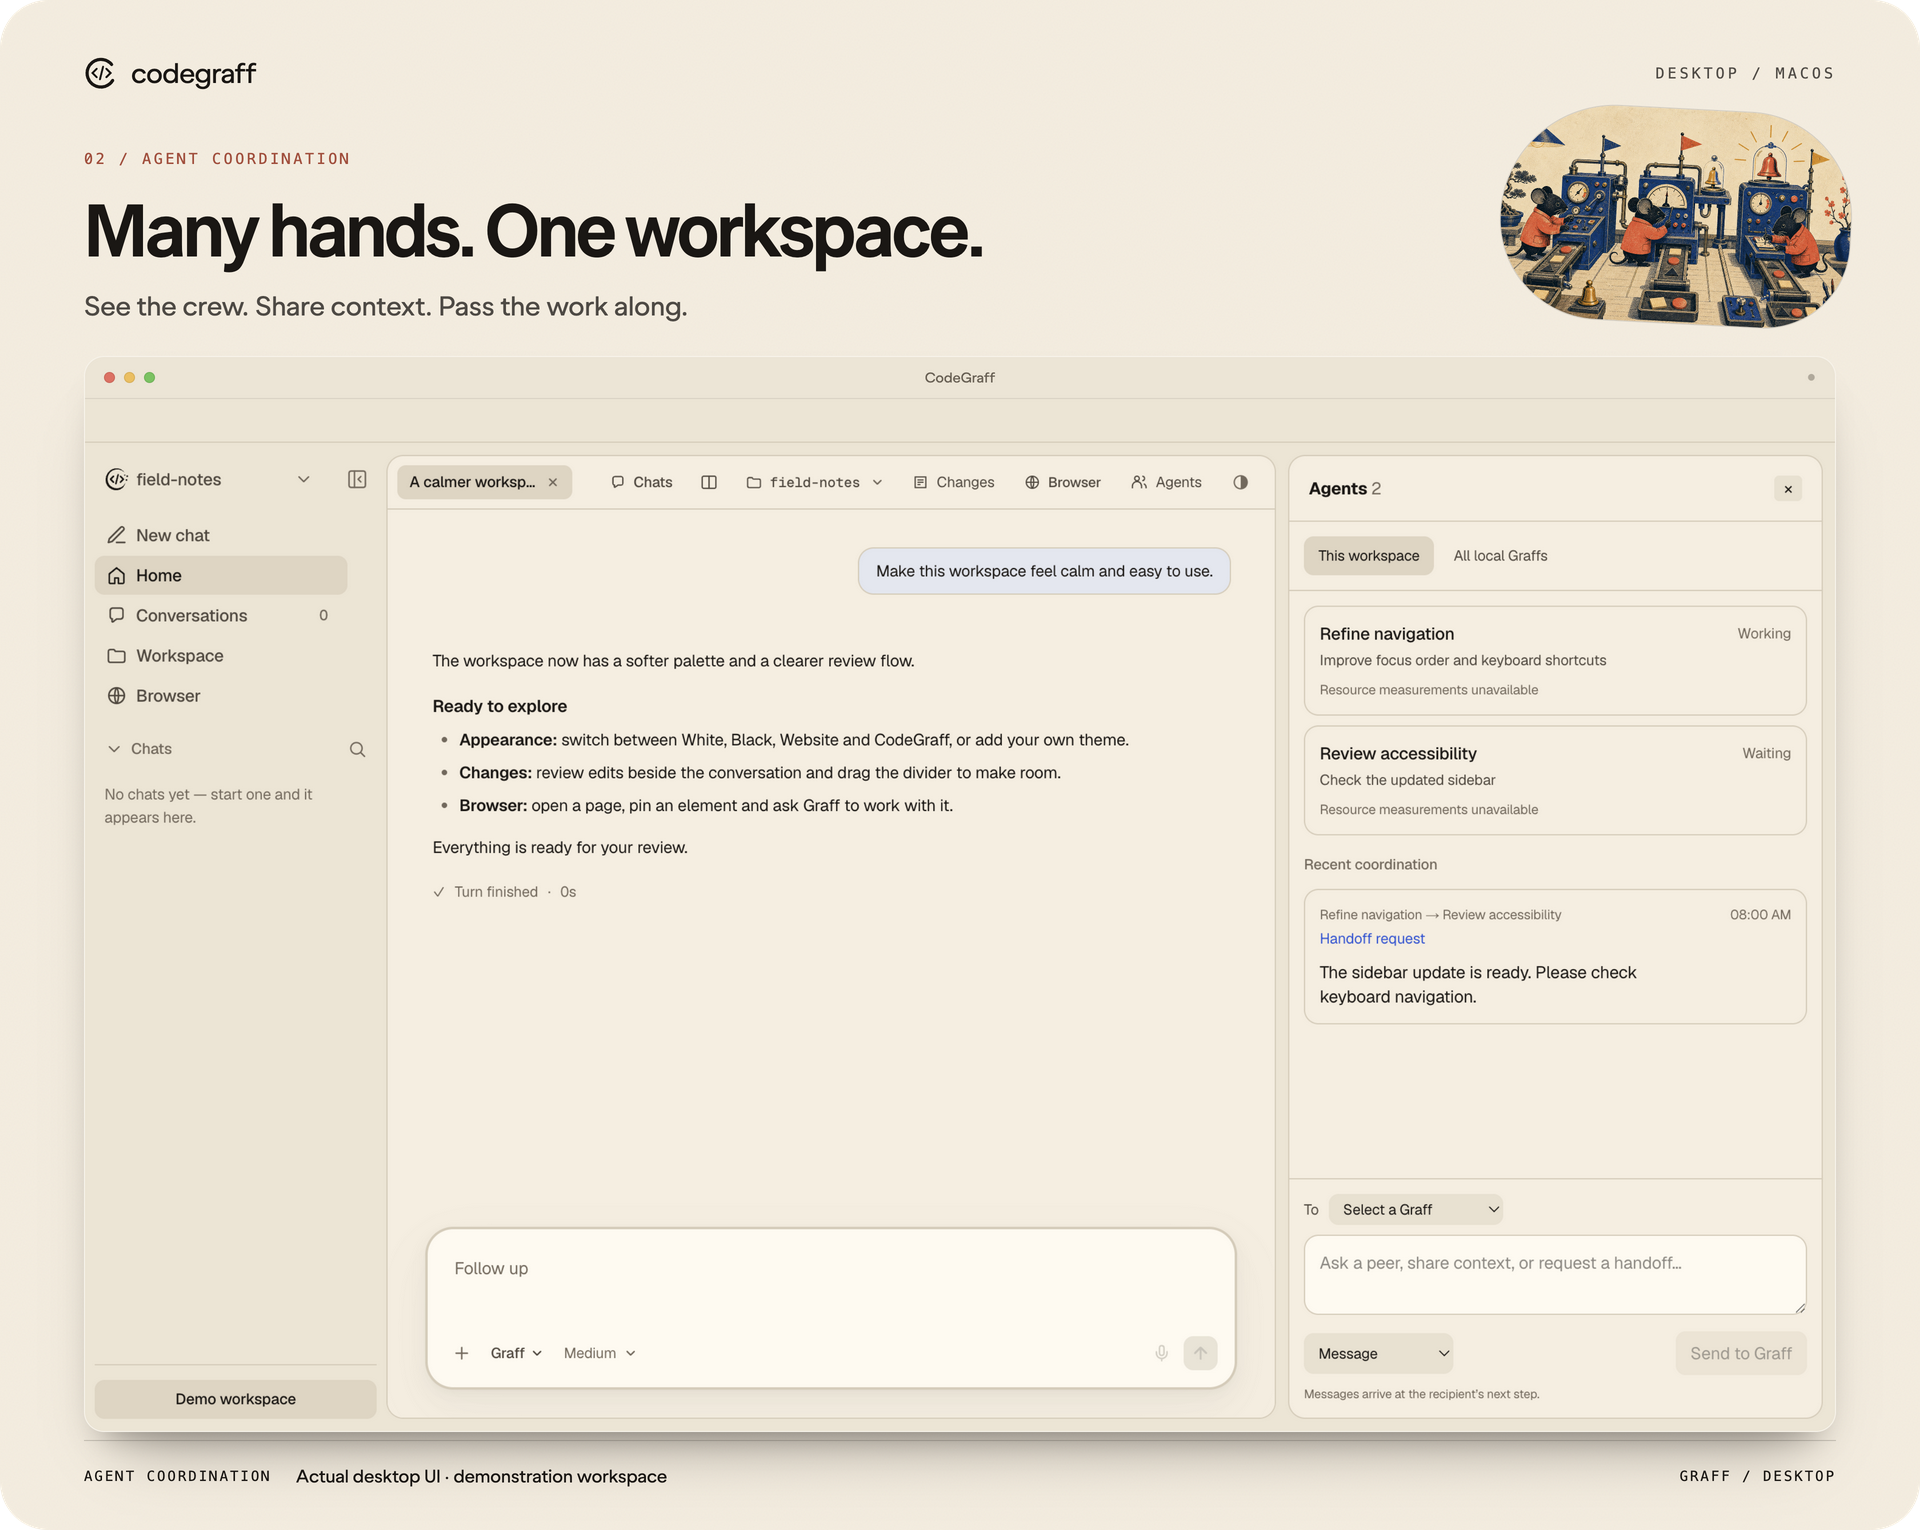
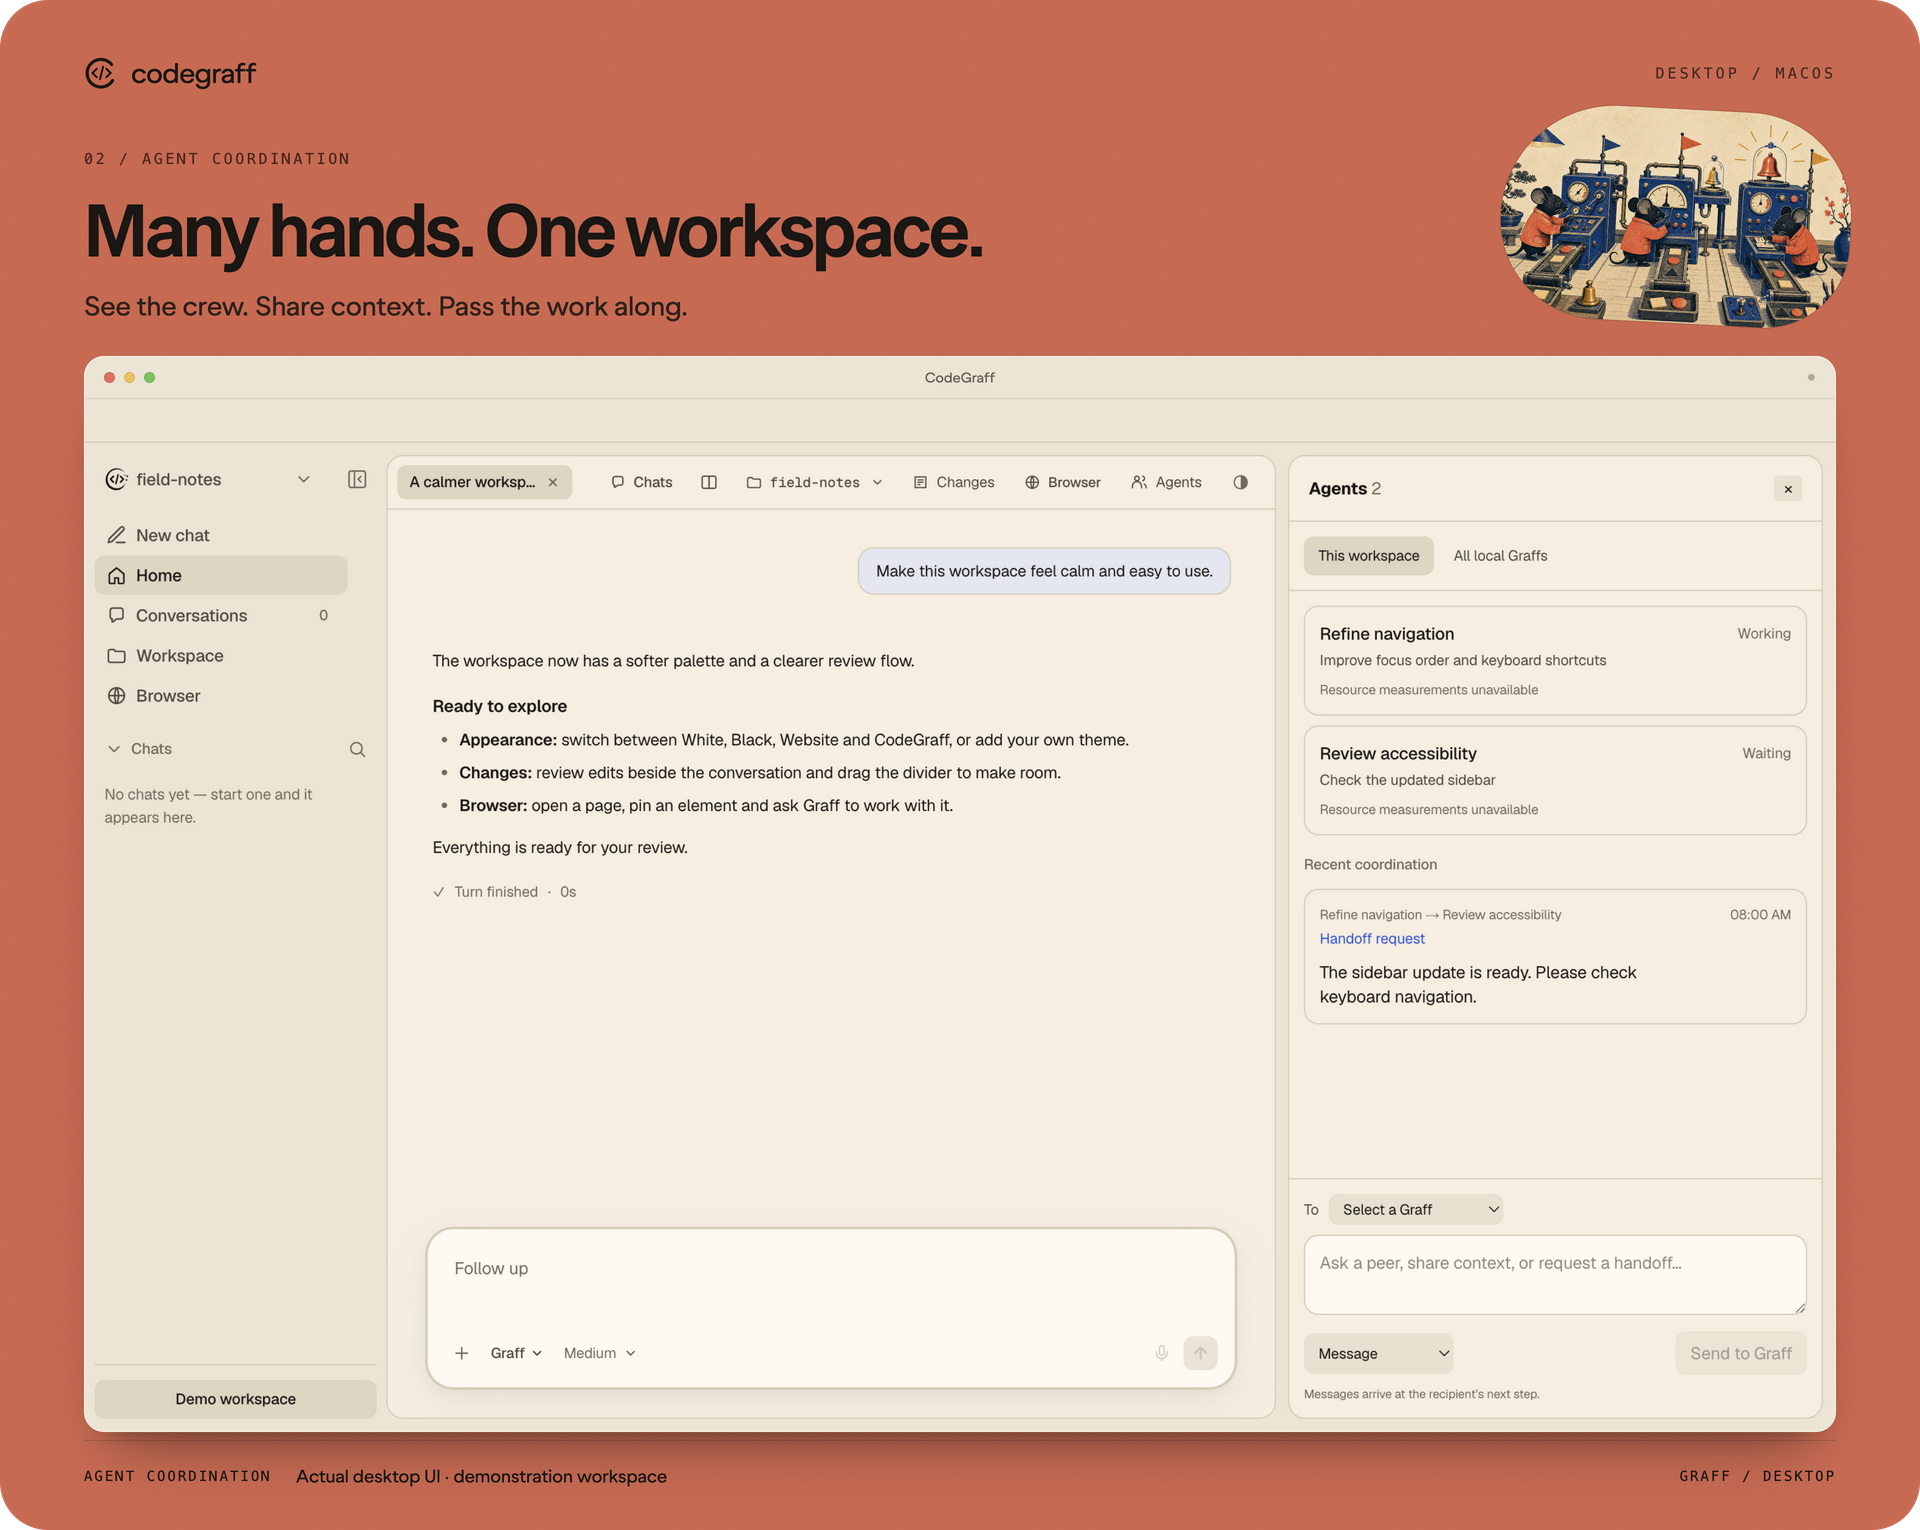
docs: lead desktop gallery with light themes and finish in dark mode

diff --git a/docs/media/readme-plates.css b/docs/media/readme-plates.css
@@ -23,6 +23,7 @@ header p { font-size: 27px; opacity: .76; margin: 0; }
 .dark { border-color: #f6eedf35; }.dark .chrome { background: #252526; color: #d0cbc2; border-color: #ffffff10; }
 footer { position: absolute; left: 84px; right: 84px; bottom: 43px; display: flex; align-items: center; gap: 24px; border-top: 1px solid #1b171430; padding-top: 24px; font-size: 18px; }
 .footer-label { font: 14px ui-monospace, monospace; letter-spacing: 2px; }.edition { margin-left: auto; font: 14px ui-monospace, monospace; letter-spacing: 2px; }
+.bright { background: #fffaf0; }.bright .chrome { background: #f5f5f6; color: #62636a; }
 .night { background: #243e73; color: #fff4df; }.night .eyebrow { color: #f5b55e; }.night footer { border-color: #f6eedf40; }
 .coral { background: #d7654d; }.coral .eyebrow { color: #4f241d; }.coral header p { opacity: .88; }
 .hero { height: 1040px; }.hero .brand { right: 1070px; }.hero .brand small { display: none; }

diff --git a/README.md b/README.md
@@ -46,14 +46,14 @@ macOS window controls and SwiftUI Activity and computer-use panels. Coding
 continues in `graff acp`; the window is a client of the same harness used by
 the terminal.
 
-[![CodeGraff's dark desktop, framed in cobalt with workshop artwork](docs/images/desktop-chat-studio.png)](docs/images/desktop-chat-dark.png)
+[![CodeGraff's bright desktop, framed in rice paper with workshop artwork](docs/images/desktop-chat-studio.png)](docs/images/desktop-chat-light.png)
 
 Chat tabs, searchable model selection, effort and fast controls, collapsed tool
 activity, and explicit working/finished/interrupted states keep the conversation
 readable. Appearance includes White, Black, Website and the official CodeGraff
 palette. Mention `$gui-theme` or `@gui-theme` in the GUI to create a custom theme.
 
-[![CodeGraff Agents panel with local peers and a handoff request, on warm paper with the workshop crew](docs/images/desktop-agents-studio.png)](docs/images/desktop-agents-codegraff.png)
+[![CodeGraff Agents panel with local peers and a handoff request, framed in coral with the workshop crew](docs/images/desktop-agents-studio.png)](docs/images/desktop-agents-codegraff.png)
 
 **Agents** brings Graff-to-Graff coordination into the GUI. See sessions in the
 current workspace or across the laptop, their published tasks and activity,
@@ -63,7 +63,7 @@ history does not consume their inbox. The optional profiler records anonymous
 per-agent resource measurements, with identities and message contents excluded
 from feedback exports. See the [Agents guide](docs/agents-panel.md).
 
-[![CodeGraff's resizable Changes panel beside the conversation, framed in coral with a rat reviewing a proof](docs/images/desktop-review-studio.png)](docs/images/desktop-review-codegraff.png)
+[![CodeGraff's dark Changes panel beside the conversation, framed in cobalt with a rat reviewing a proof](docs/images/desktop-review-studio.png)](docs/images/desktop-review-dark.png)
 
 **Changes** shows local staged, unstaged and untracked edits, diffs, worktrees
 and recent commits. Drag its divider to give the review more room. The browser

diff --git a/docs/media/README.md b/docs/media/README.md
@@ -3,7 +3,8 @@
 The README uses CodeGraff's workshop artwork: black field mice in coral coats,
 textured paper, ink, cobalt, and restrained editorial typography. Desktop plates
 add rounded presentation frames and soft shadows around actual GUI captures.
-The screenshots are unchanged; the window chrome outside them is presentation
+The desktop sequence moves from White on rice paper, through the warm CodeGraff
+palette on coral, to Black on cobalt. The screenshots are unchanged; the window chrome outside them is presentation
 decoration. README links open the original PNGs for closer inspection.
 
 ## Regenerate
